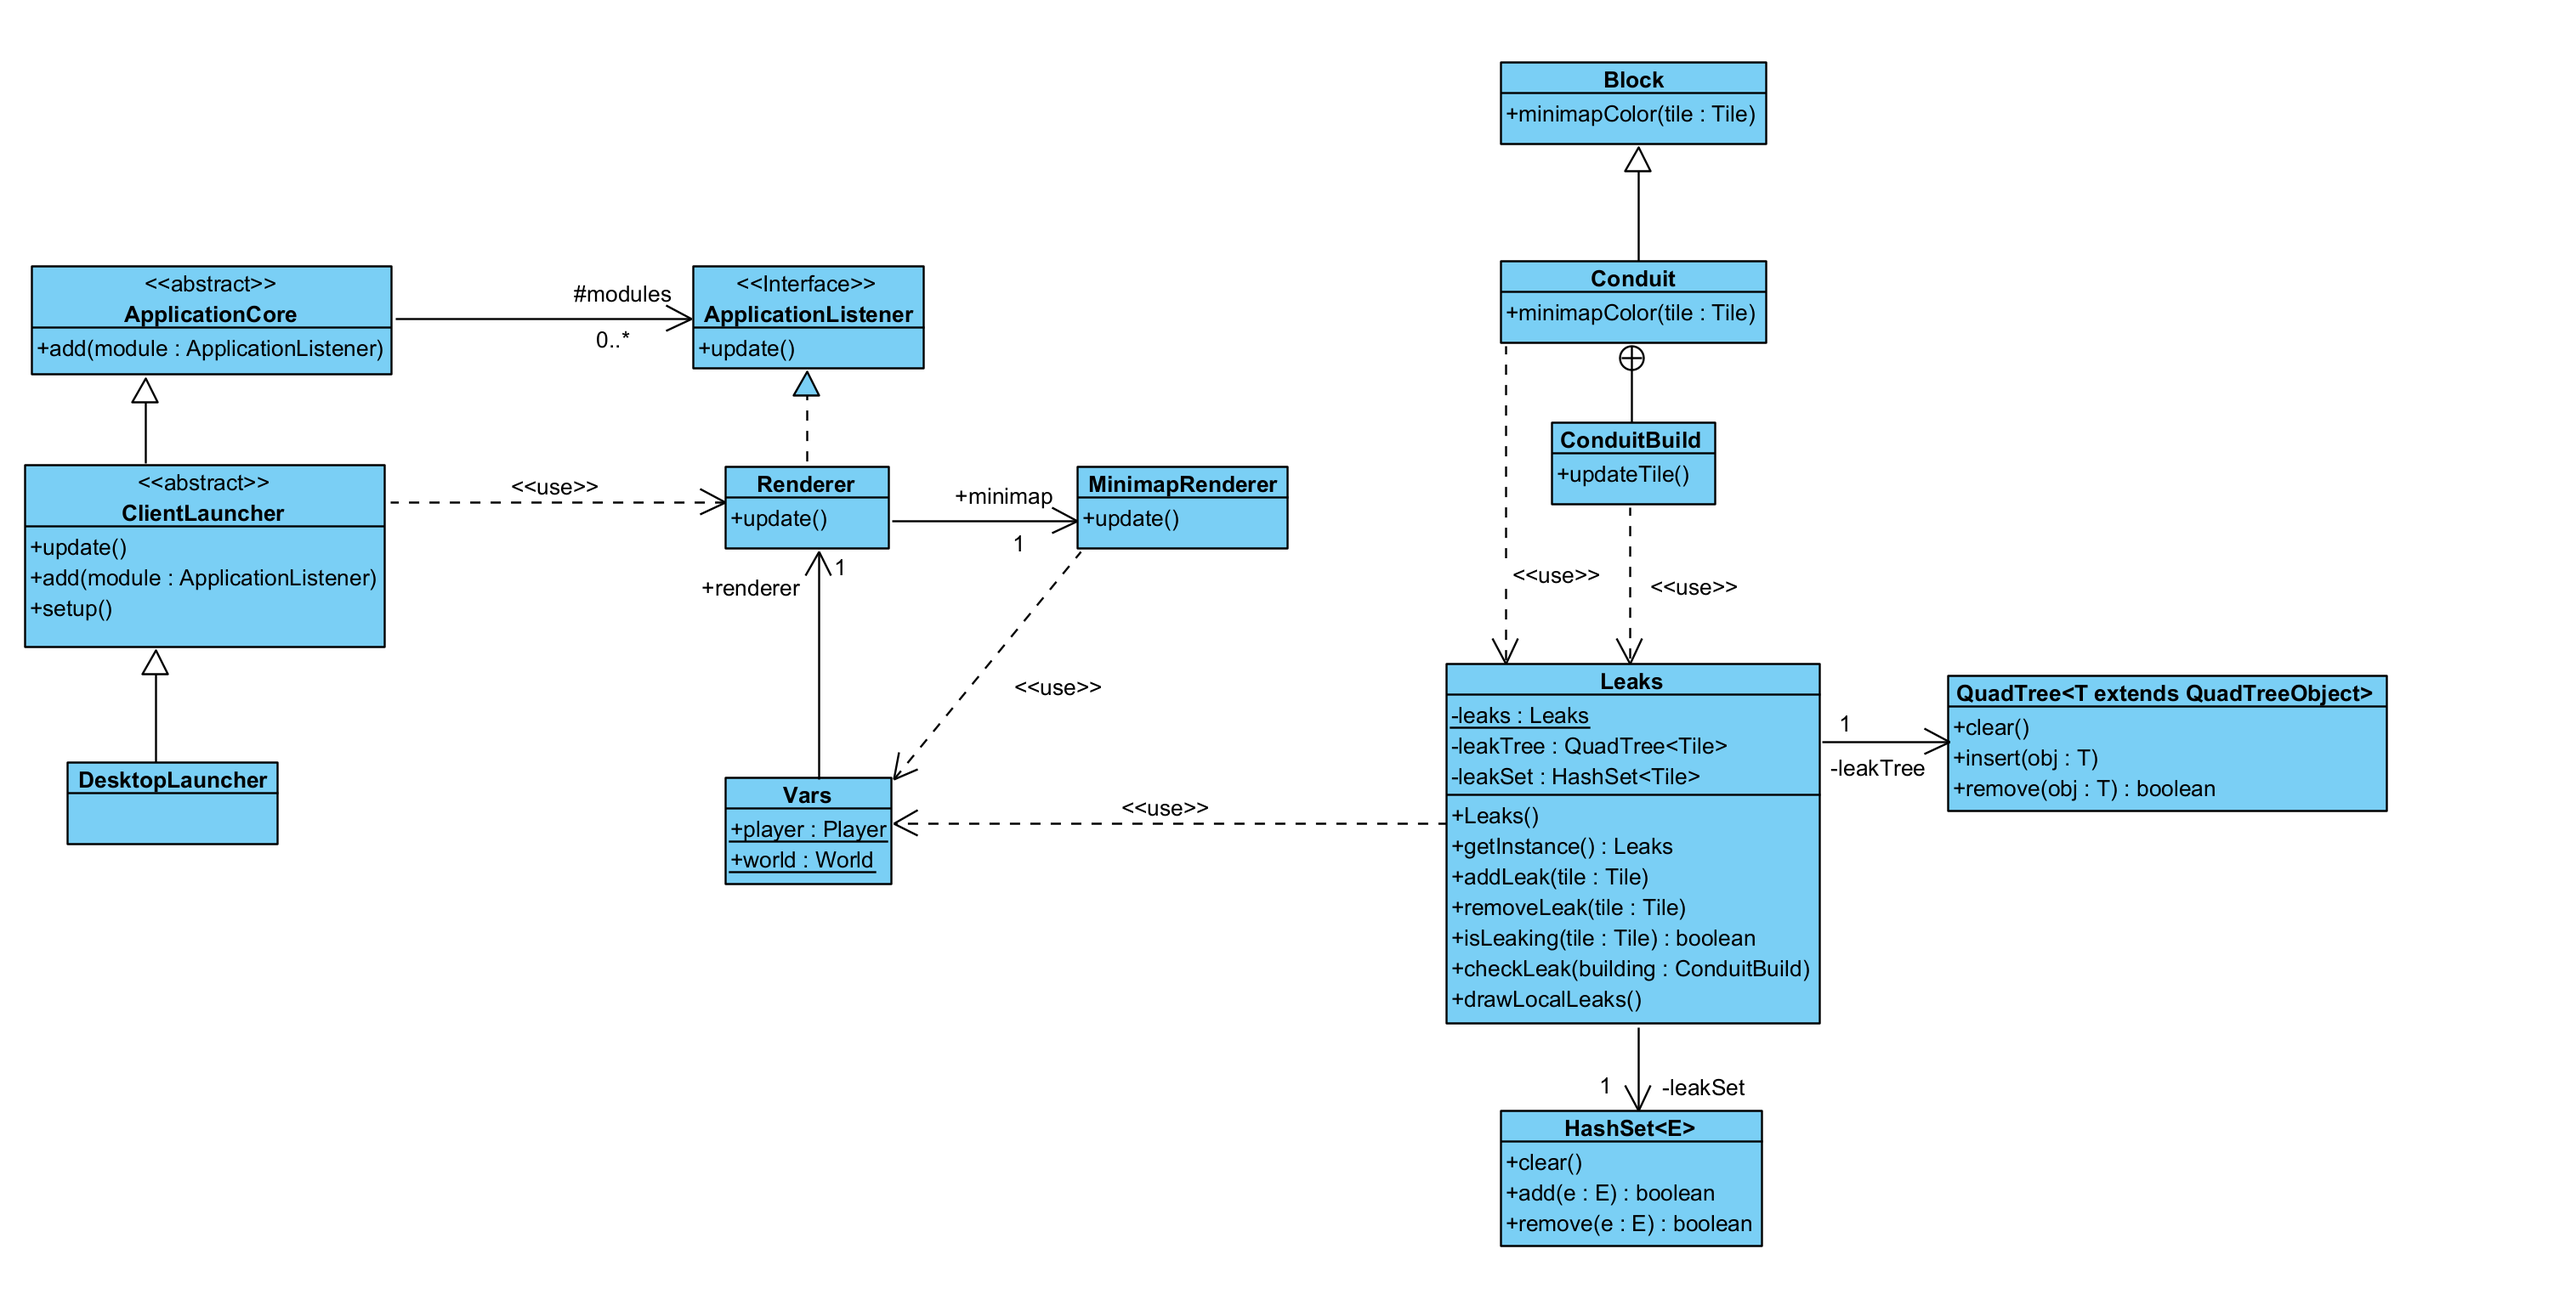
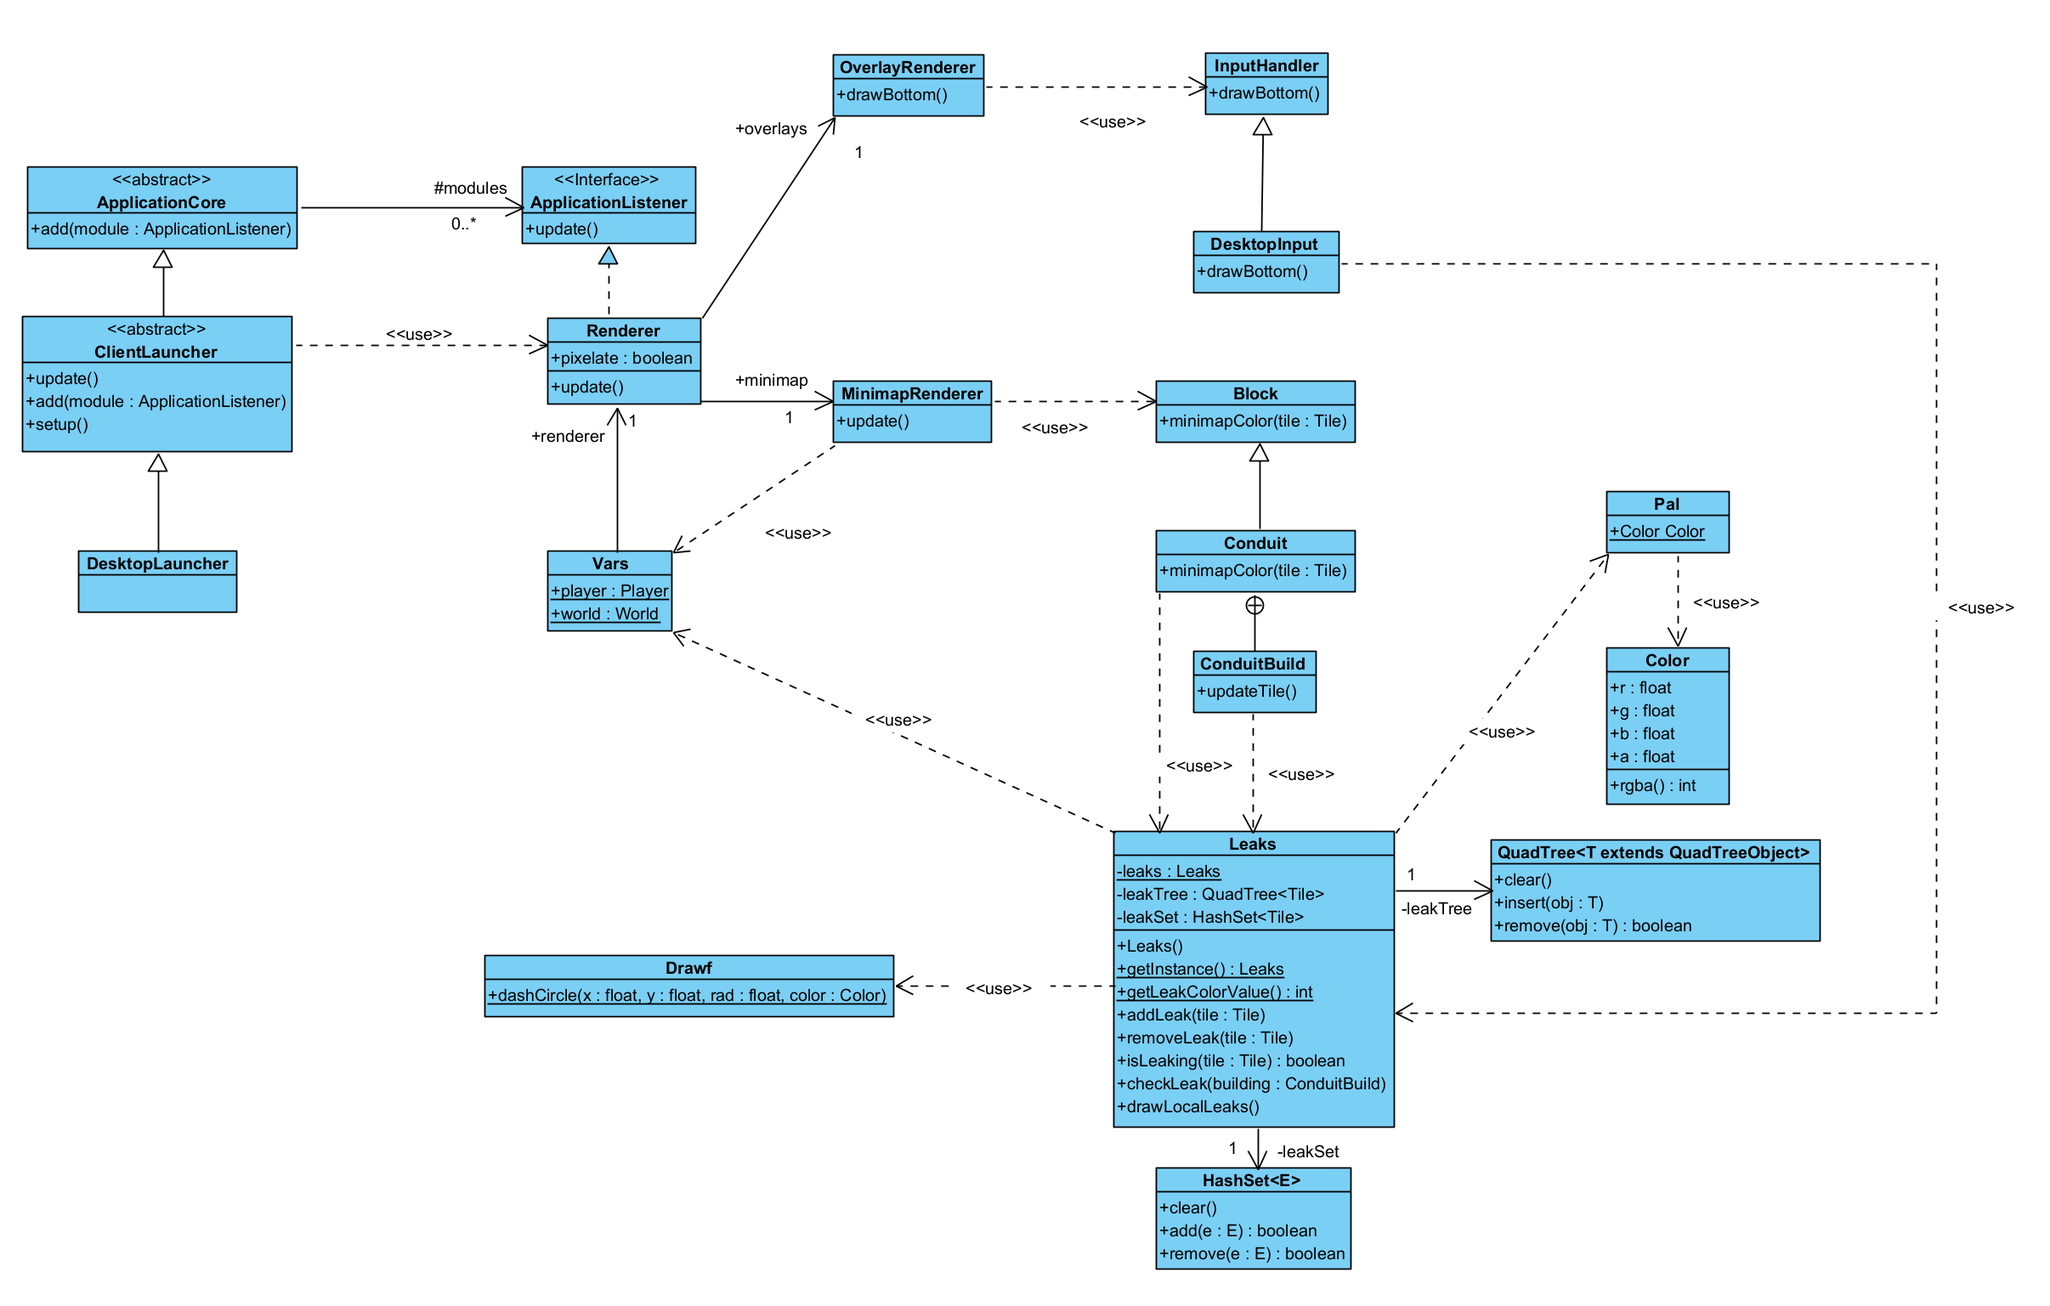
Diogo Antunes 67763: Modified leak implementation so Leak Color only directly accessed in singleton, and completed Update leak display class diagram

diff --git a/core/src/mindustry/game/Leaks.java b/core/src/mindustry/game/Leaks.java
@@ -1,5 +1,6 @@
 package mindustry.game;
 import arc.Events;
+import arc.graphics.Color;
 import arc.math.geom.QuadTree;
 import arc.math.geom.Rect;
 import mindustry.Vars;
@@ -21,6 +22,11 @@ public class Leaks {
      * Minimum diameter for which leaks are identified with circles. (to avoid multiplying radius by 2 every time diameter is needed)
      */
     private static final float MIN_DIAM = 2 * MIN_RANGE;
+
+    /**
+     * Color for leaking related display.
+     */
+    private static final Color LEAK_COLOR = Pal.leakingWarn;
 
     // Static Vars
     /**
@@ -54,6 +60,10 @@ public class Leaks {
             leaks = new Leaks();
         }
         return leaks;
+    }
+
+    public static int getLeakColorValue() {
+        return Pal.leakingWarn.rgba();
     }
     
     public void addLeak(Tile tile) {
@@ -107,7 +117,7 @@ public class Leaks {
         // Intersects with square around player x and y
         this.leakTree.intersect(x - MIN_RANGE , y - MIN_RANGE, MIN_DIAM, MIN_DIAM, tile -> {
             if(tile.within(x, y, MIN_RANGE)) {
-                Drawf.dashCircle(tile.getX(), tile.getY(), MIN_RANGE, Pal.leakingWarn);
+                Drawf.dashCircle(tile.getX(), tile.getY(), MIN_RANGE, LEAK_COLOR);
             }
         });
     }

diff --git a/core/src/mindustry/world/blocks/liquid/Conduit.java b/core/src/mindustry/world/blocks/liquid/Conduit.java
@@ -156,7 +156,7 @@ public class Conduit extends LiquidBlock implements Autotiler{
     @Override
     public int minimapColor(Tile tile){
         if (Leaks.getInstance().isLeaking(tile)) {
-            return Pal.leakingWarn.rgba();
+            return Leaks.getLeakColorValue();
         } else {
             return super.minimapColor(tile);
         }

diff --git a/SE202526/Milestone3/UserStory2/README.md b/SE202526/Milestone3/UserStory2/README.md
@@ -42,10 +42,11 @@ With this in mind, I will omit the sections of logic of such methods unrelated t
 *(Please add your implementation summary review here)*
 ### Class diagrams
 (*Class diagrams and their discussion in natural language.*)
-#### Update minimap
+#### Update leak display
 ![img.png](img.png)
-This class diagram is related to the frequent calling of the minimap update method that ensures pending updates are drawn to the minimap.
-In the user story scenario, these are tiles labelled as leaking in the ``Leaks`` singleton class.
+This class diagram is related to the frequent calling of the renderer update method that updates the minimap, ensuring pending updates are drawn it.
+In the user story scenario, these updates concern tiles labelled as leaking in the ``Leaks`` singleton class.
+It also covers drawing the rendering of the overlay that shows leaks close to the player.
 
 The ``DesktopLauncher`` is executed to launch the game and start running it. It is a specialization of ``ClientLauncher``, which during setup,
 adds an instance of ``Renderer`` (an implementation of ``ApplicationListener``), among other modules, to the ``ApplicationCore`` super class.
@@ -53,6 +54,8 @@ adds an instance of ``Renderer`` (an implementation of ``ApplicationListener``),
 As such:
 - The game runs with an instance of ``Renderer`` (which contains a ``MinimapRenderer`` attribute), and frequently calls its ``update()`` method.
 - If the game is not in a menu state, it needs to update the minimap, which it does by calling the ``update()`` method in the ``MinimapRenderer`` instance **minimap**.
+
+#### Minimap Update
 - ``update()`` in ``MinimapRenderer`` goes through pending updates for world positions that were sent for update
   (the global Vars can translate these into tiles, and then blocks, from which a color can be fetched).
 - Adding to pending updates is described in another use case, but as shown in the diagram involves the ``updateTile`` method in ``ConduitBuild`` I modified to allow this.
@@ -63,10 +66,21 @@ What I'm omitting in the diagram to condense the logic is the following:
 
 - The ``Vars`` class has an attribute of class ``World`` that stores the tiles of the active map and can get a tile given an ``int`` position value using a method ``Tile(int pos)``.
  
-**New functionality**
+**Relevant case for minimap**
 - The relevant case here is when the tile corresponds to a ``Block`` specialization ``Conduit``. Getting the color for display is done using ``minimapColor(Tile tile)`` I overrode in ``Conduit``
-to return a light blue color ``Pal.leakingWarn`` if the tile is leaking (``super`` otherwise).
-- This is quickly checked by using the ``isLeaking(tile Tile)`` method in the singleton ``Leaks``, which checks if it has the tile stored.
+to return a light blue color ``Pal.leakingWarn`` if the tile is leaking (``super`` otherwise). The ``rgba()`` method is called on this instance of ``Color`` to obtain a value that can stored in the int buffer that represents the colors to put to screen.
+- This presence of a leak is quickly checked by using the ``isLeaking(tile Tile)`` method in the singleton ``Leaks``, which checks if it has the tile stored.
+- Note: ``Pal`` is the palette class that stores used colors of the ``Color`` class. The pixel map and such buffers that the application uses after getting 
+the color from a block to place each color were also omitted to avoid confusion.
+
+#### Showing local leaks (going back to ``update`` in ``Renderer``)
+- The ``update()`` method in ``Renderer`` also calls the own class's ``draw()`` method if the ``boolean pixelate`` from the ``Renderer`` static instance in ``Vars`` is turned off (decided in settings).
+- This method performs ``drawBottom()`` in ``OverlayRenderer``, which calls a method of the same name in ``DesktopInput``(assuming playing in Desktop).
+- in ``DesktopInput``, the **new functionality** is finally called on the instance of the ``Leaks`` singleton: ``drawLocalLeaks``.
+- This method uses the player's x and y coordinates from the static ``Player`` instance in ``Vars`` to find all leaks within a 10 block radius of the player
+and show a blue-dashed ring as below (drawn using the static ``dashCircle(float x, float y, float rad, Color color)`` method in the ``Drawf`` class):
+![img_1.png](img_1.png)
+
 ### Review
 *(Please add your class diagram review here)*
 ### Sequence diagrams
